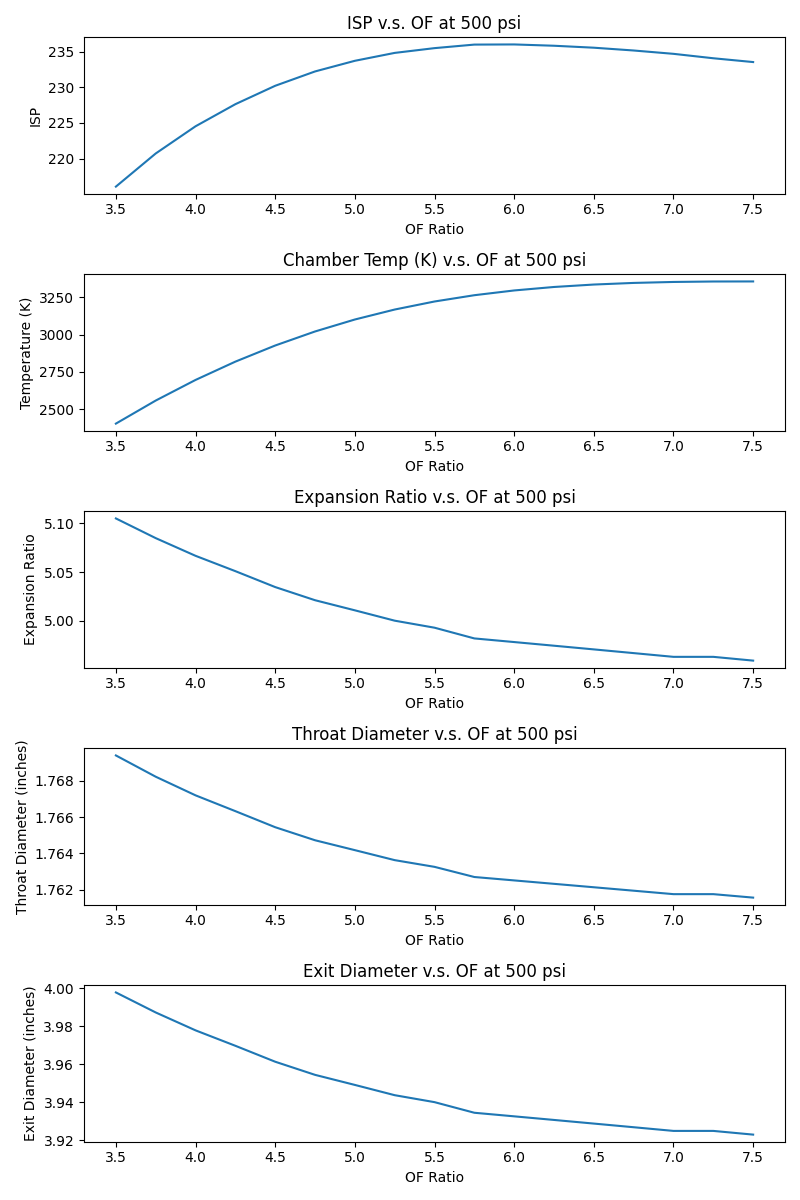
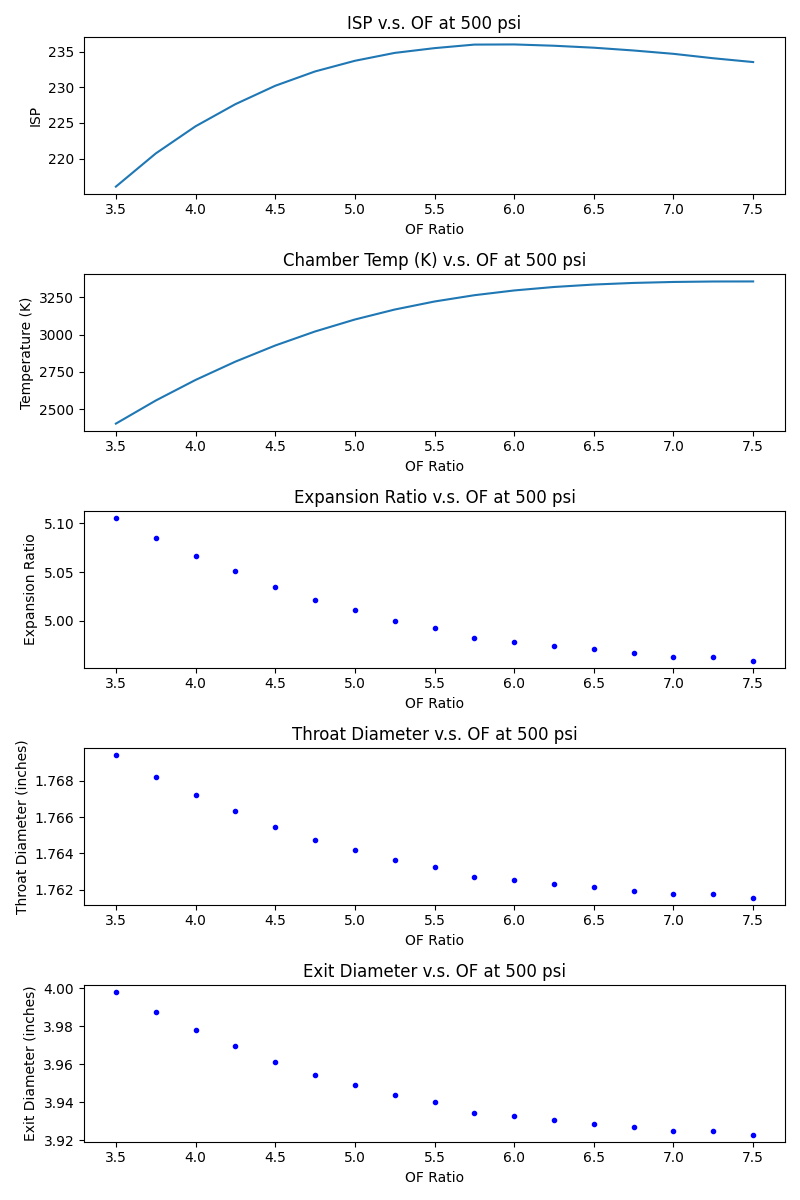
scattered some plots

diff --git a/graphs.py b/graphs.py
@@ -49,7 +49,7 @@ def getData(paths, pressure):
         exp_ratios.append(getOptimumExpansionRatio(TEMP[i], CP_CV[i], pressure))
                           
     exp_ratios = np.array(exp_ratios)
-    axs[2].plot(OF, exp_ratios)
+    axs[2].scatter(OF, exp_ratios, color = "blue", marker = ".")
     axs[2].set_xlabel("OF Ratio")
     axs[2].set_ylabel("Expansion Ratio")
     axs[2].set_title(f"Expansion Ratio v.s. OF at {pressure} psi")
@@ -62,7 +62,7 @@ def getData(paths, pressure):
         throat_diameter.append(getThroatDiameter(mdot, pressure, MOL_WEIGHT[i], TEMP[i], CP_CV[i]))
     #print(exp_ratios)
     throat_diameter = np.array(throat_diameter)
-    axs[3].plot(OF, throat_diameter)
+    axs[3].scatter(OF, throat_diameter, color = "blue", marker = ".")
     axs[3].set_xlabel("OF Ratio")
     axs[3].set_ylabel("Throat Diameter (inches)")
     axs[3].set_title(f"Throat Diameter v.s. OF at {pressure} psi")
@@ -74,7 +74,7 @@ def getData(paths, pressure):
         exit_diameter.append(getExitDiameter(exp_ratios[i], throat_diameter[i]))
     exit_diameter = np.array(exit_diameter)
 
-    axs[4].plot(OF, exit_diameter)
+    axs[4].scatter(OF, exit_diameter, color = "blue", marker = ".")
     axs[4].set_xlabel("OF Ratio")
     axs[4].set_ylabel("Exit Diameter (inches)")
     axs[4].set_title(f"Exit Diameter v.s. OF at {pressure} psi")
